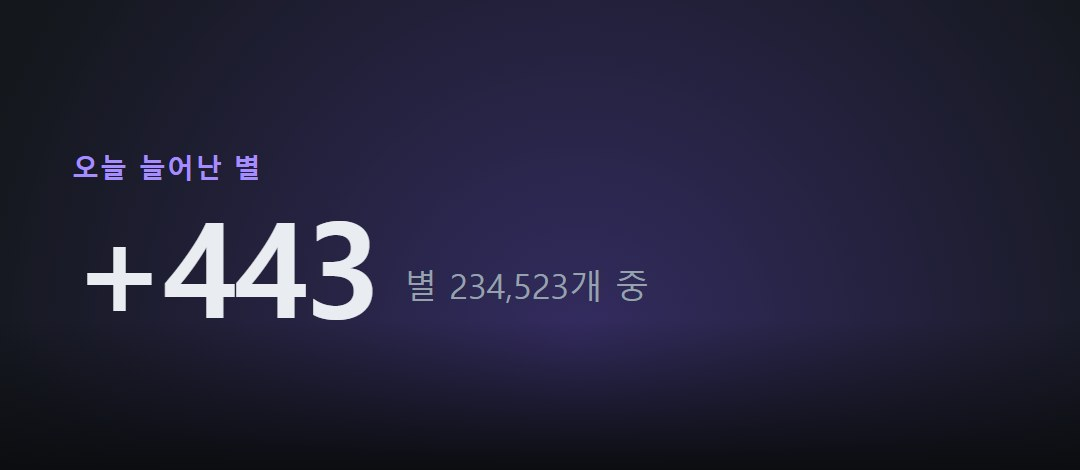
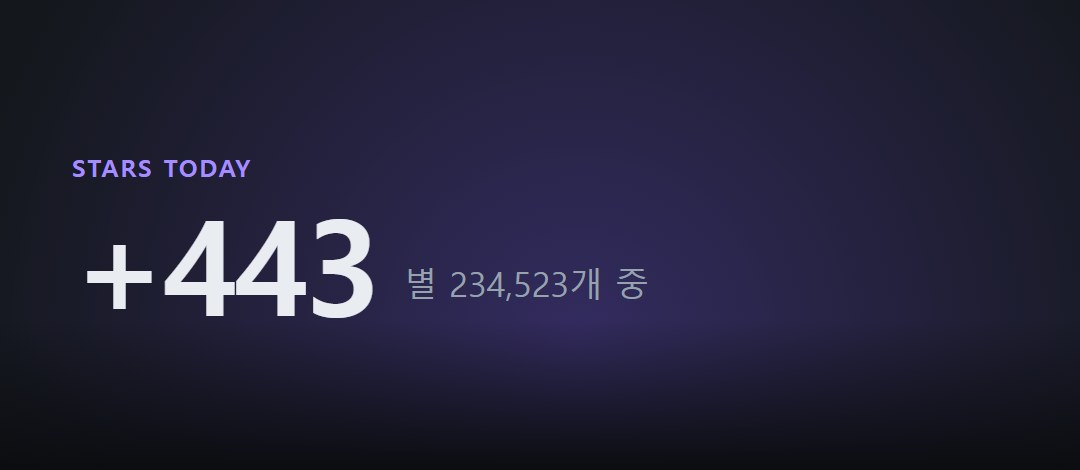
style(imagery): 스타 수치 라벨을 STARS TODAY 로 되돌림
한국어로 바꿨던 것을 원래대로 복구. 자간도 대문자 라틴에 맞게 되돌렸다.

diff --git a/agent/imagery.py b/agent/imagery.py
@@ -6,7 +6,7 @@
 | 역할 | 그래픽 | 출처 |
 |---|---|---|
 | what_is_it | GitHub OG 이미지 | `opengraph.githubassets.com` |
-| why_now | 스타 증가 수치 + 막대 | 스냅샷 이력 (실데이터) |
+
 | quickstart | 터미널 창 | 카드의 실제 설치 명령 |
 | fit | 두 칸 머리글 | 고정 문구 |
 | feature | 큰 번호 01/02/03 | 카드 순서 |

diff --git a/SPEC.md b/SPEC.md
@@ -615,7 +615,7 @@ python -m agent design-sync
 | 역할 | 그래픽 | 출처 |
 |---|---|---|
 | what_is_it | GitHub OG 이미지 | `opengraph.githubassets.com` |
-| why_now | 오늘 늘어난 별 + 일별 막대 | 스냅샷 이력 (실데이터) |
+| why_now | STARS TODAY 수치 + 일별 막대 | 스냅샷 이력 (실데이터) |
 | quickstart | 터미널 창 | 카드의 실제 설치 명령 |
 | feature | 큰 번호 01/02/03 | 카드 순서 |
 | problem | 큰 물음표 | — |
